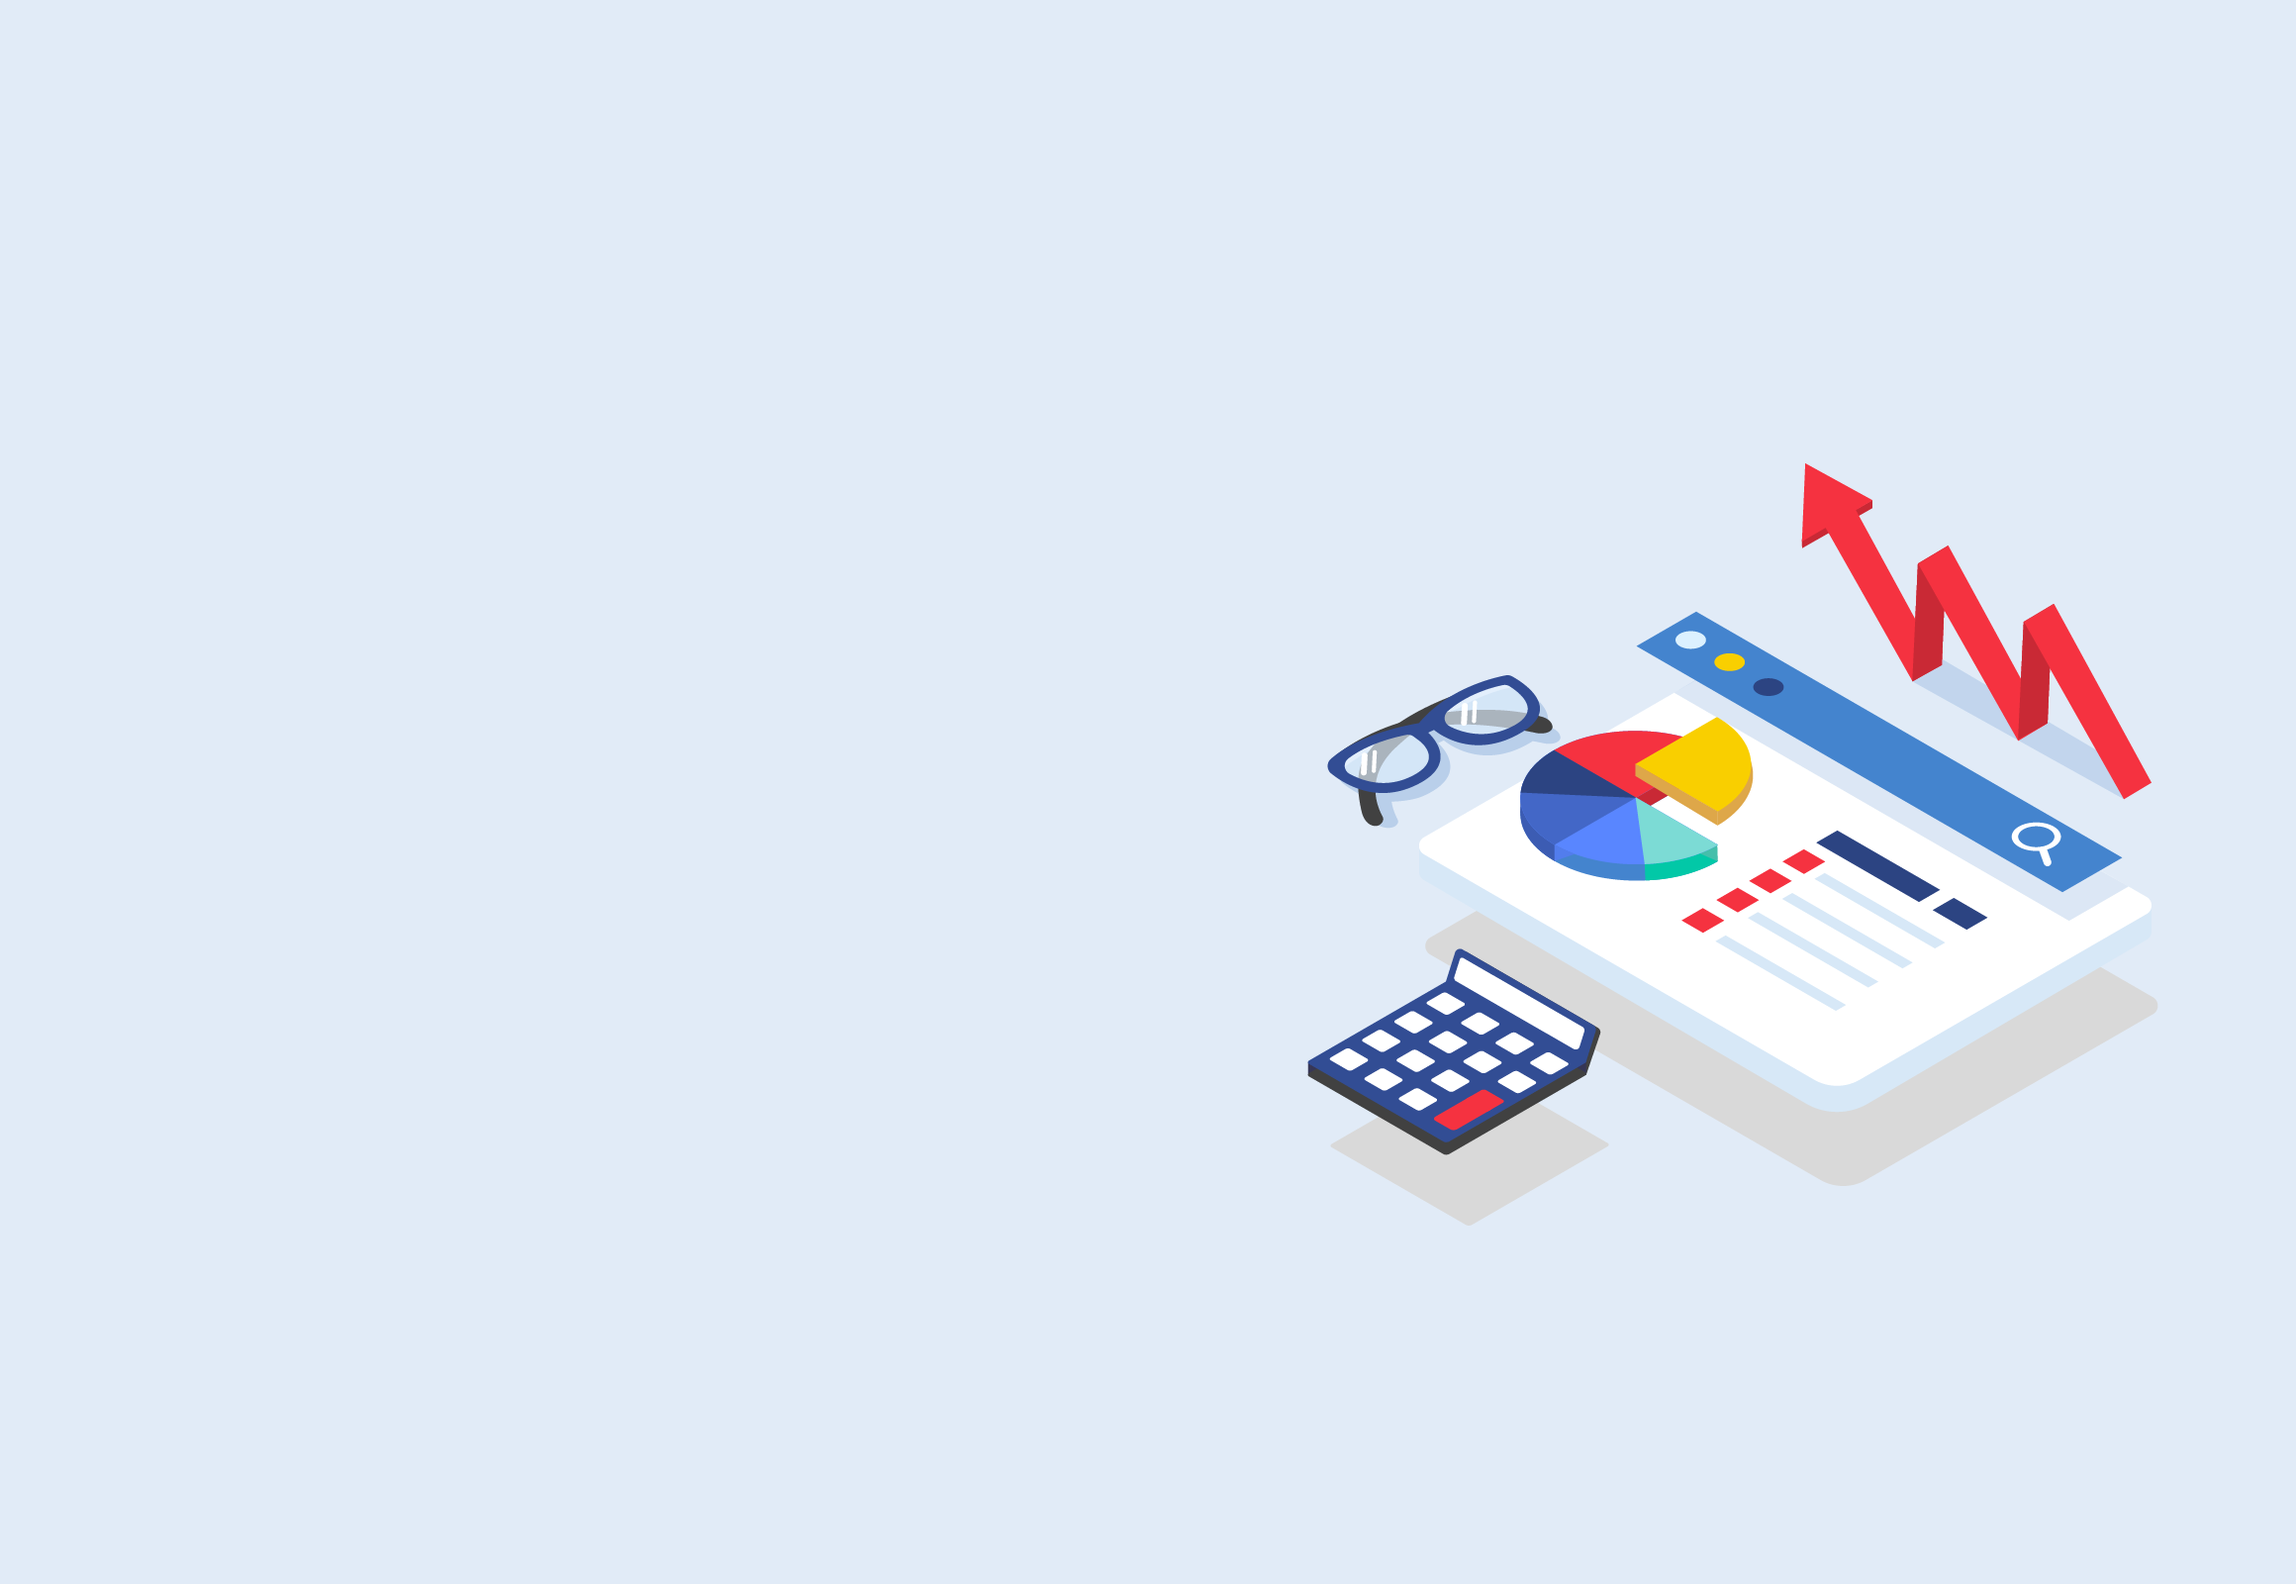
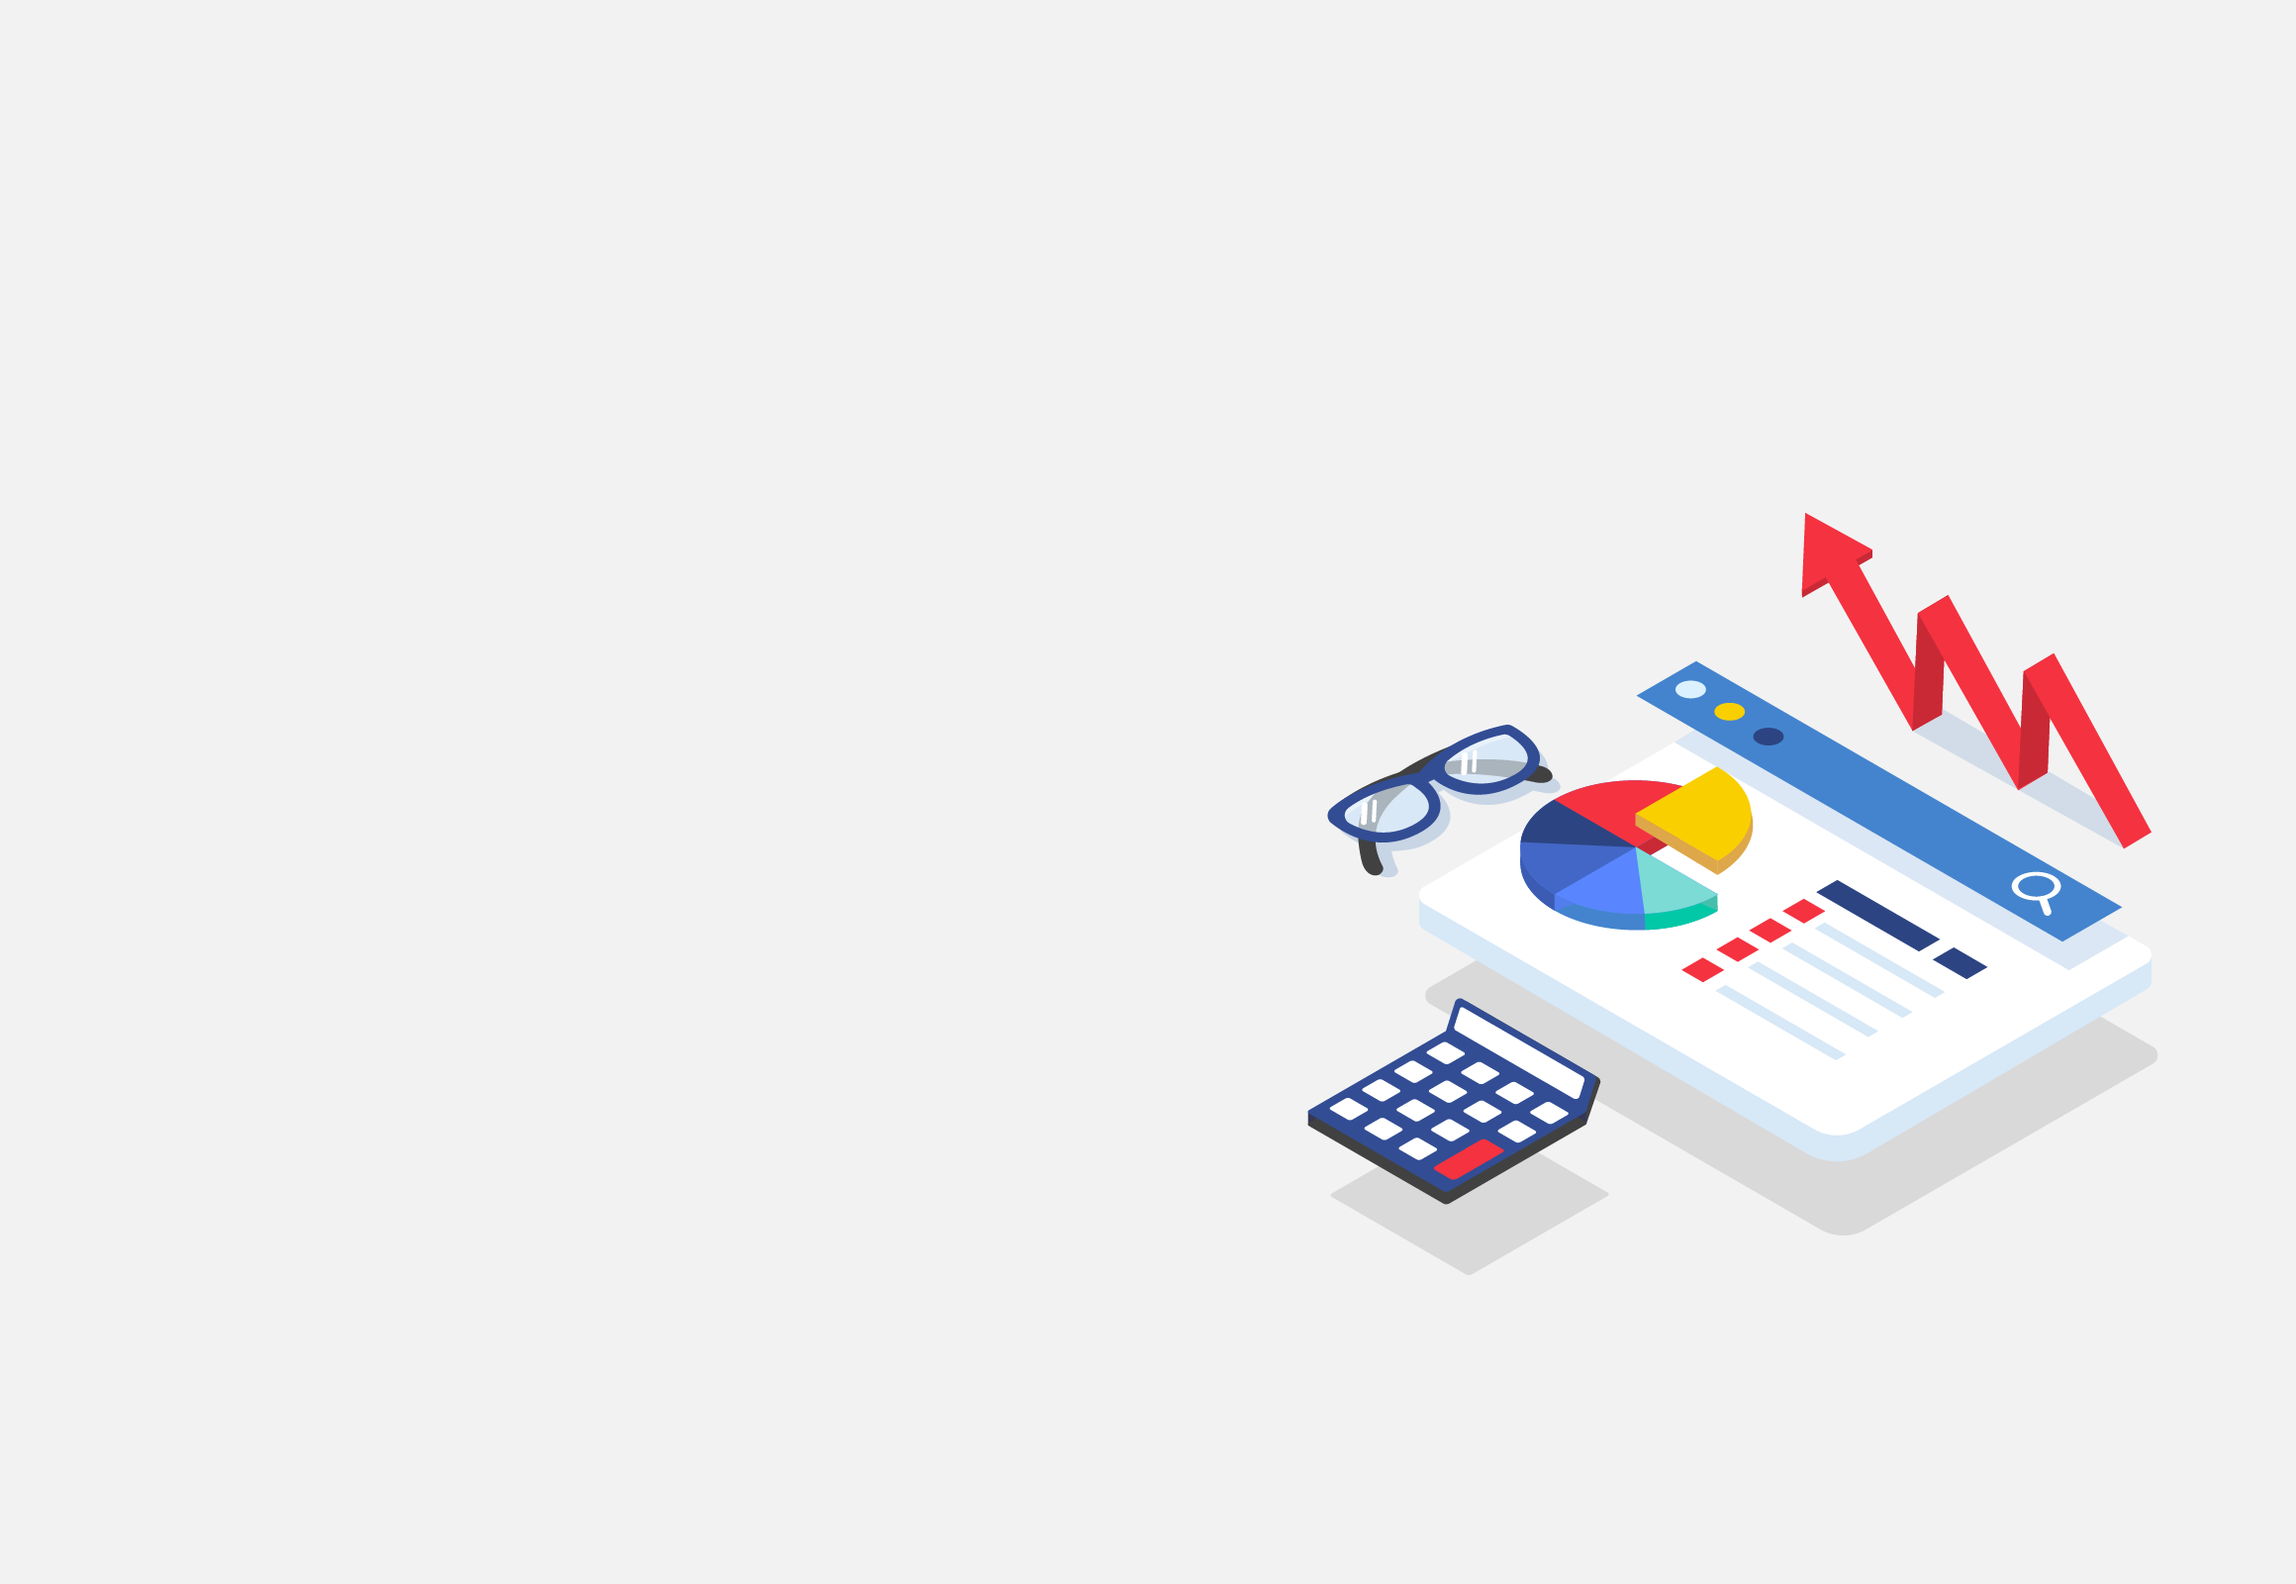
More styling shizzl
More styling shizzl

Changed region(s): [[0.5586, 0.2812, 0.9621, 0.8125]]

diff --git a/css/style.css b/css/style.css
@@ -656,7 +656,7 @@ hr {
   padding: 80px 0 0;
   background-size: cover;
   background-position: 50% 50%;
-  background-color: #E1EBF7
+  background-color: #F2F2F2
 }
 .full.no-padding {
   padding: 0;
